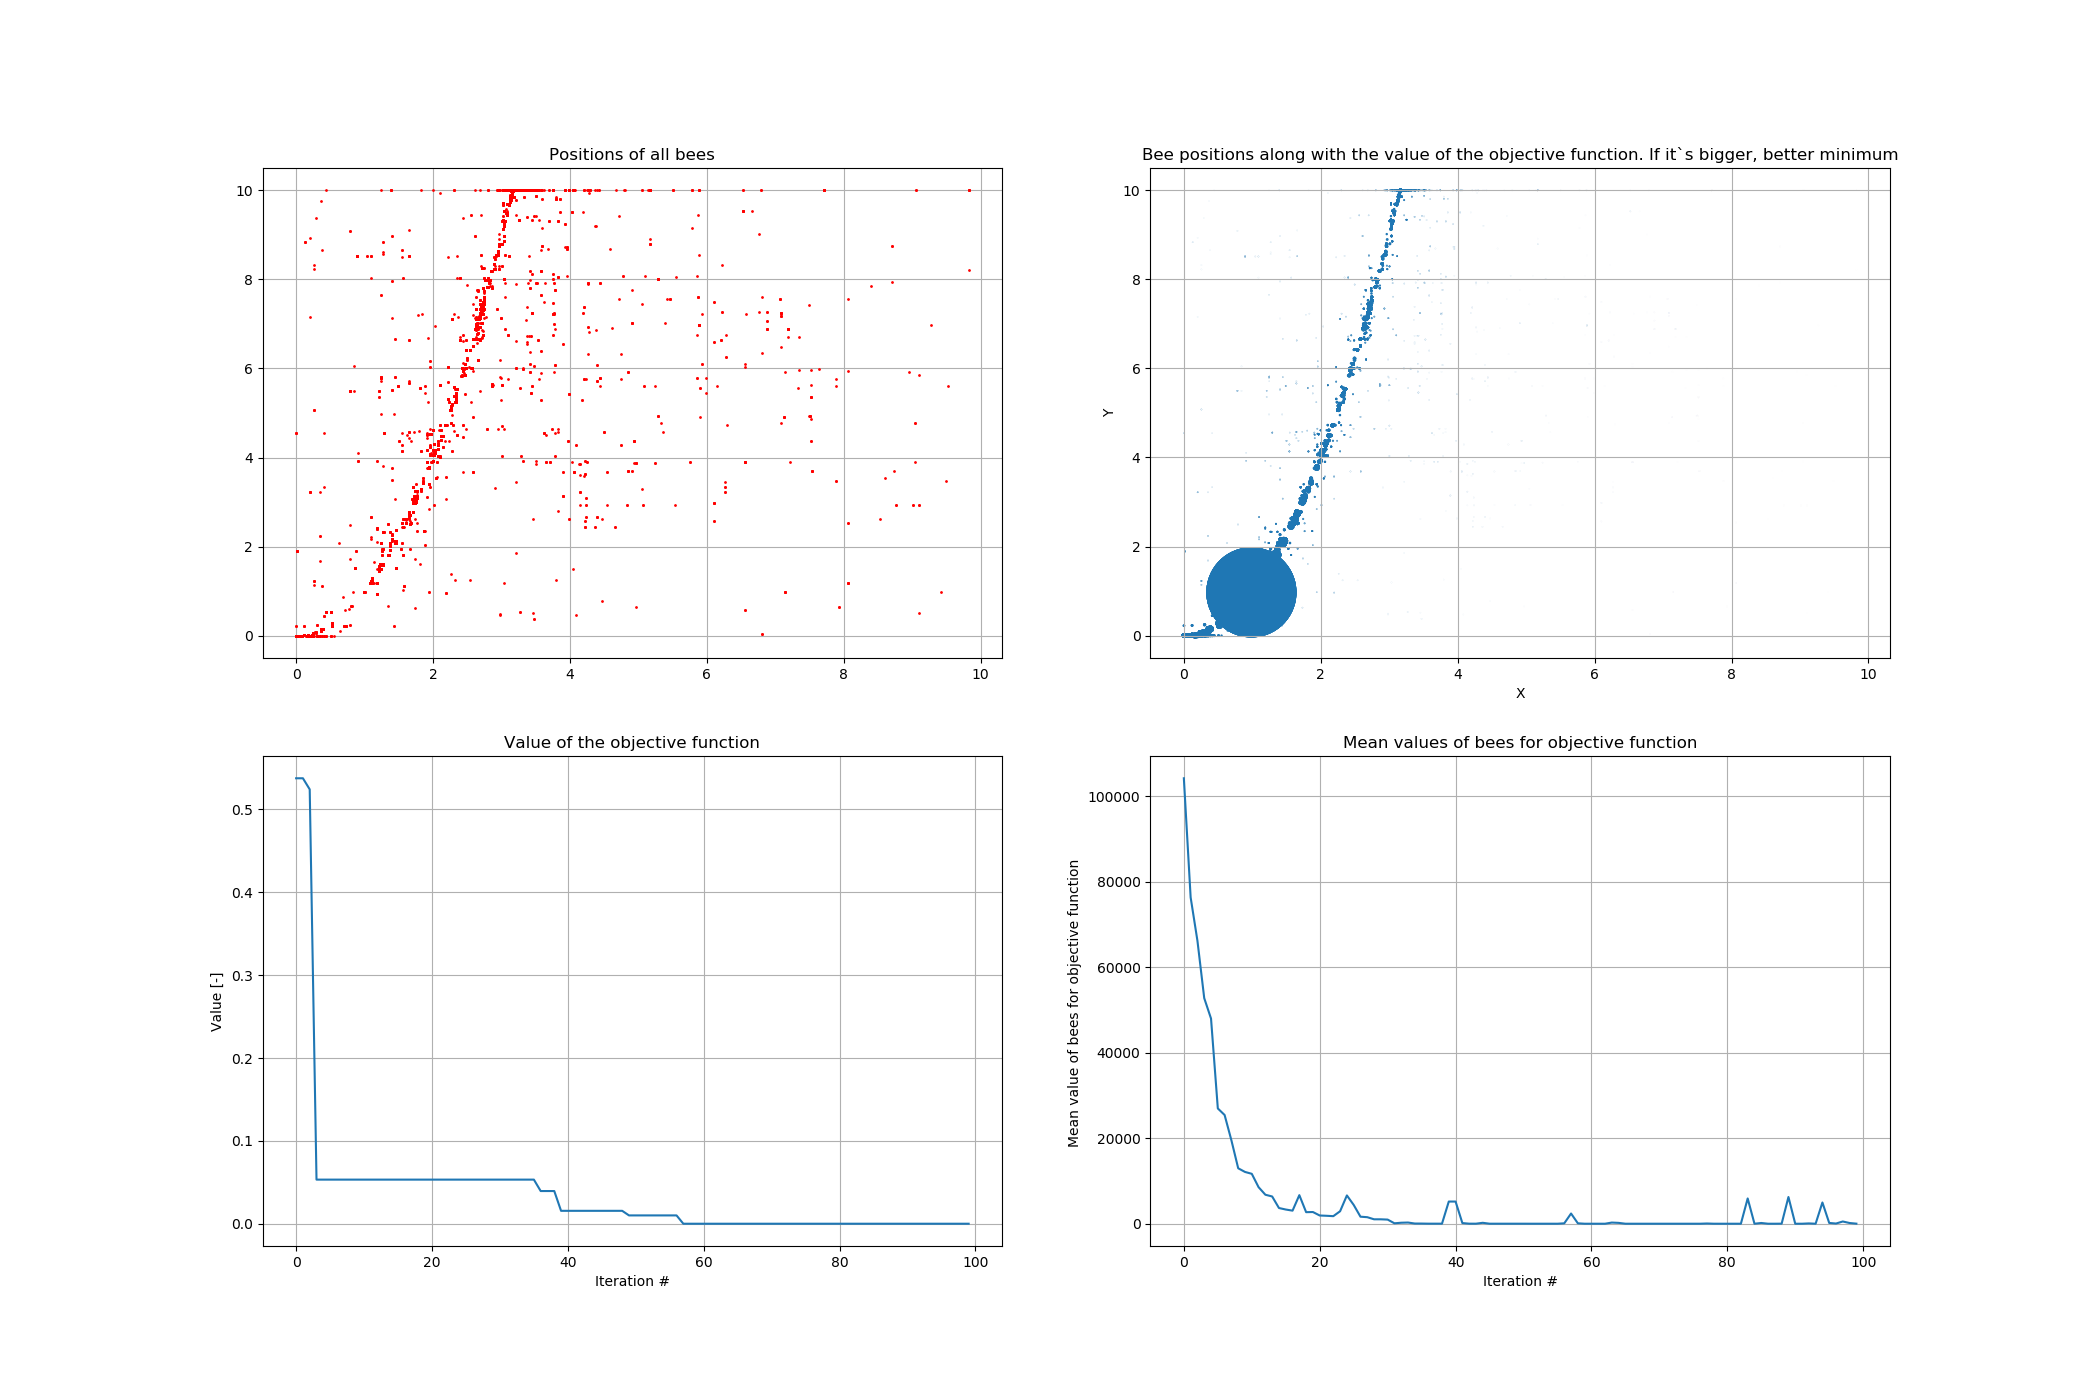
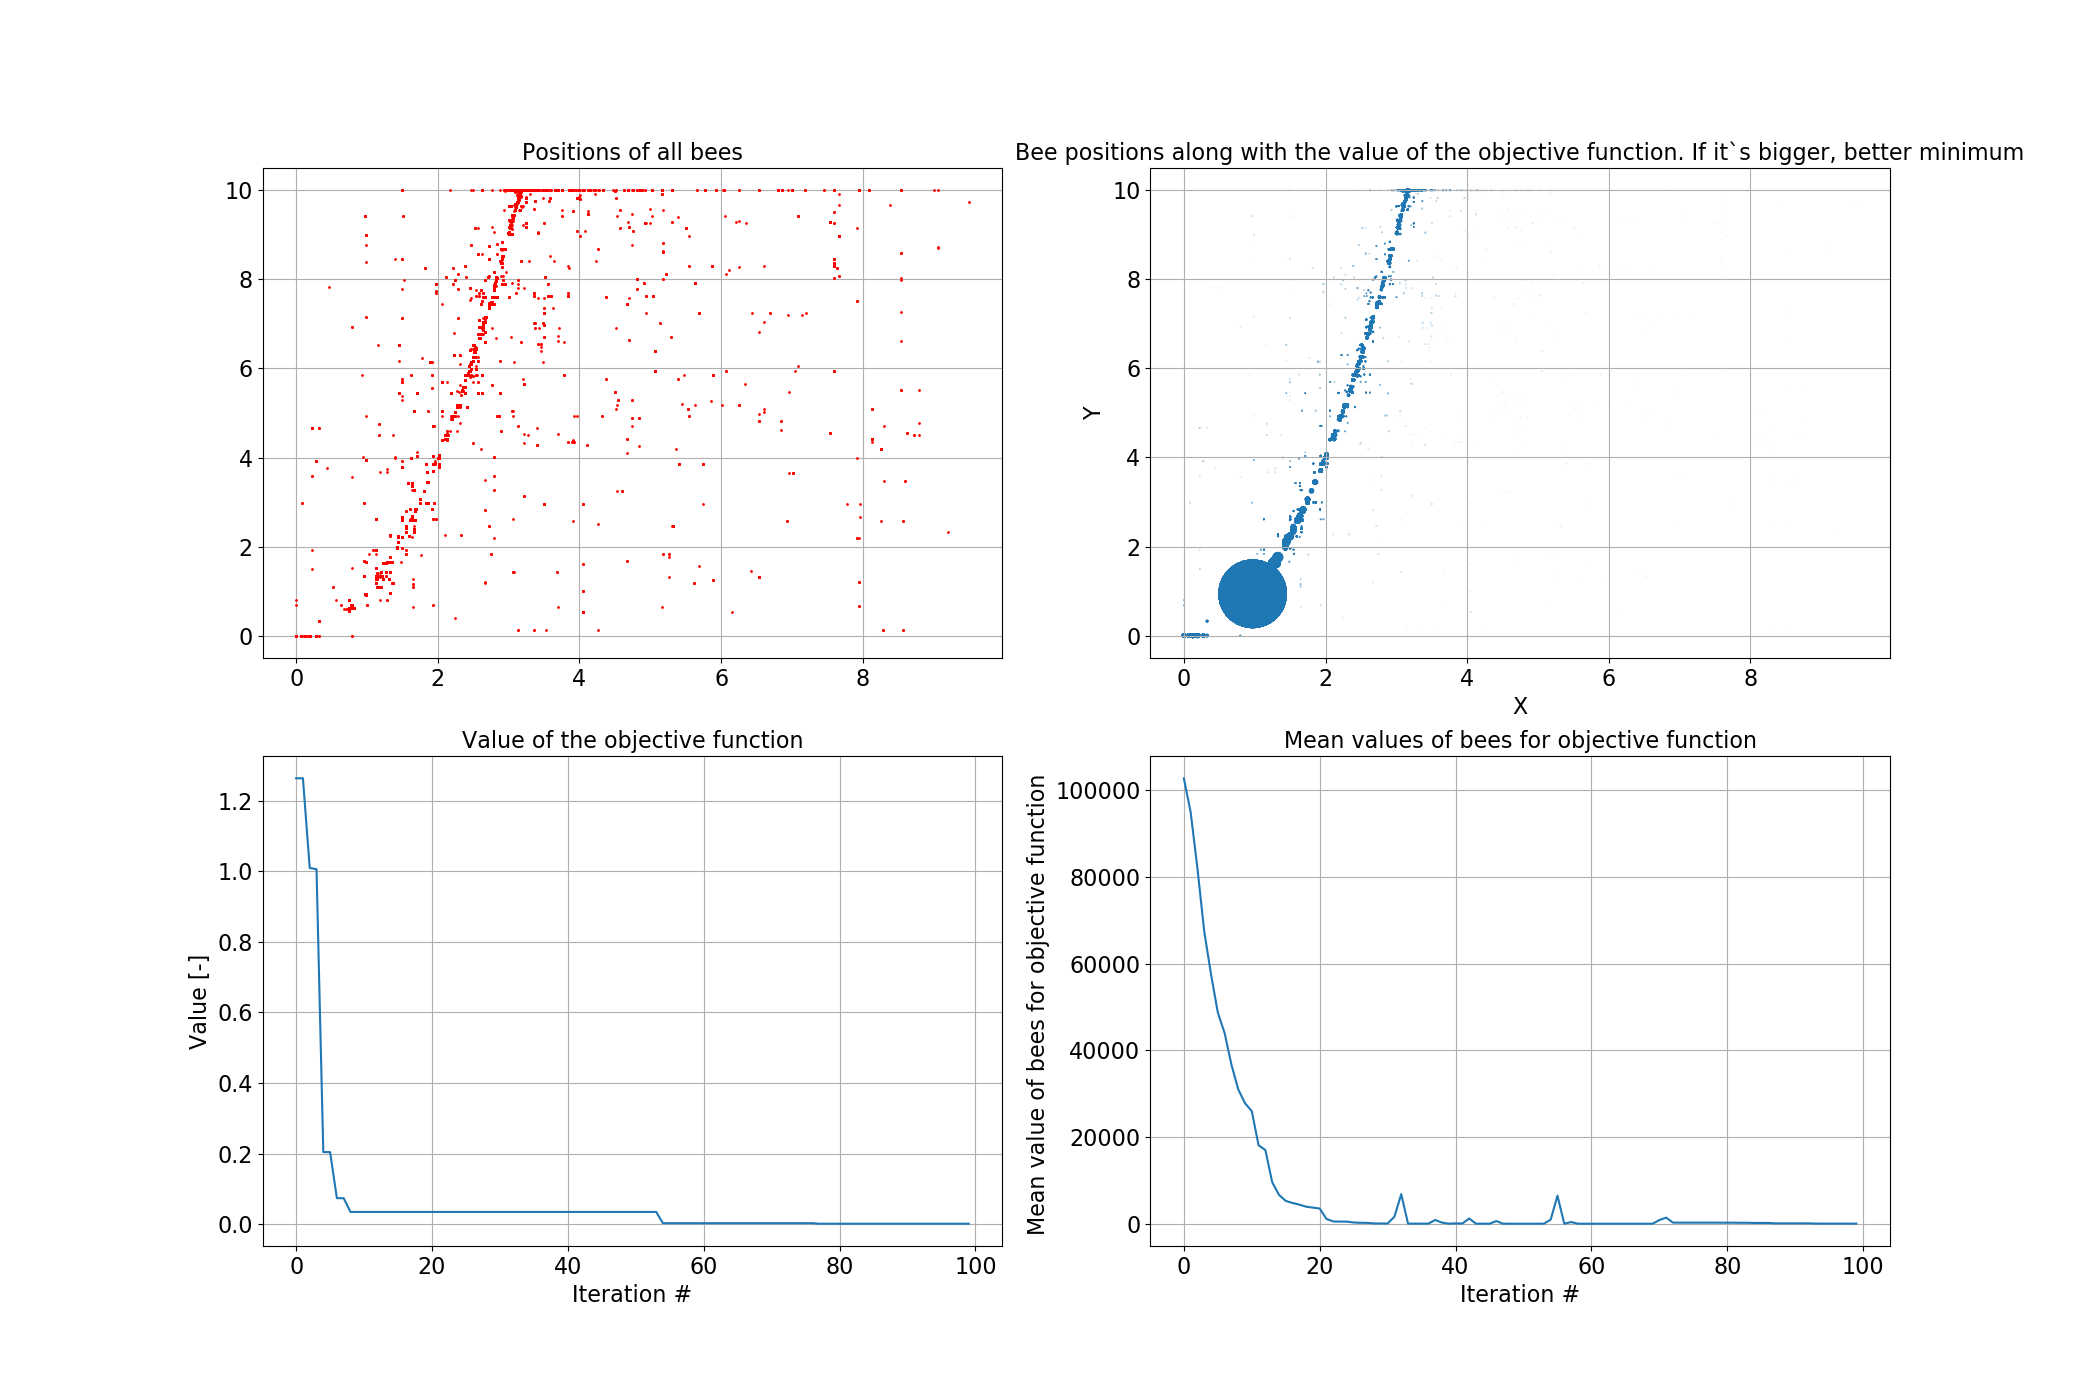
res update

diff --git a/bee_colony/utilities.py b/bee_colony/utilities.py
@@ -2,13 +2,19 @@
 
 
 import matplotlib.pyplot as plt
-from matplotlib.font_manager import FontProperties
 
 
 def plot(data, func_name):
-    font = FontProperties()
-    font.set_size('larger')
-    plt.figure(1, figsize=(21,14))
+    SMALL_SIZE = 16
+
+
+    plt.rc('font', size=SMALL_SIZE)  # controls default text sizes
+    plt.rc('axes', titlesize=SMALL_SIZE)  # fontsize of the axes title
+    plt.rc('axes', labelsize=SMALL_SIZE)  # fontsize of the x and y labels
+    plt.rc('xtick', labelsize=SMALL_SIZE)  # fontsize of the tick labels
+    plt.rc('ytick', labelsize=SMALL_SIZE)  # fontsize of the tick labels
+    plt.rc('legend', fontsize=SMALL_SIZE)  # legend fontsize
+    plt.figure(1, figsize=(21, 14))
 
     plt.subplot(221)
     plt.plot(data["all_population_func_x"], data["all_population_func_y"], 'ro', markersize=1)
